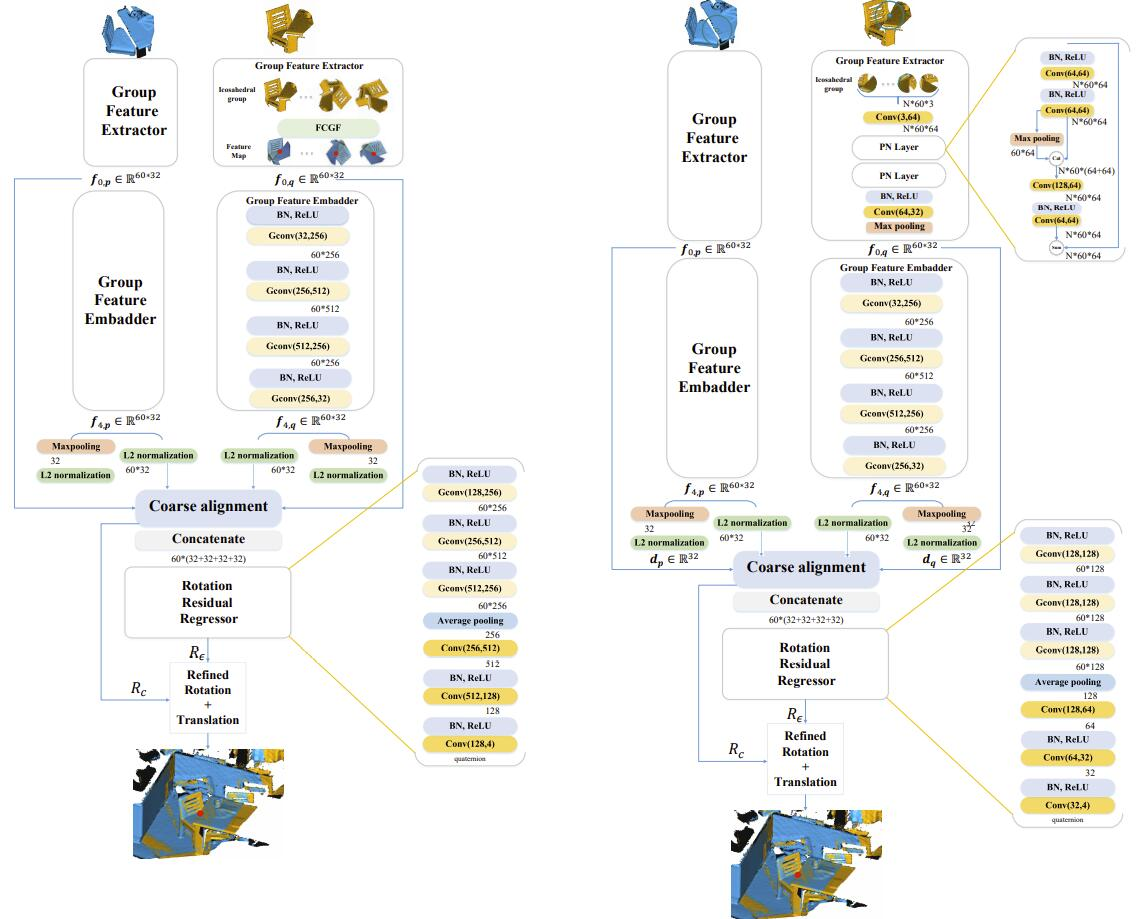
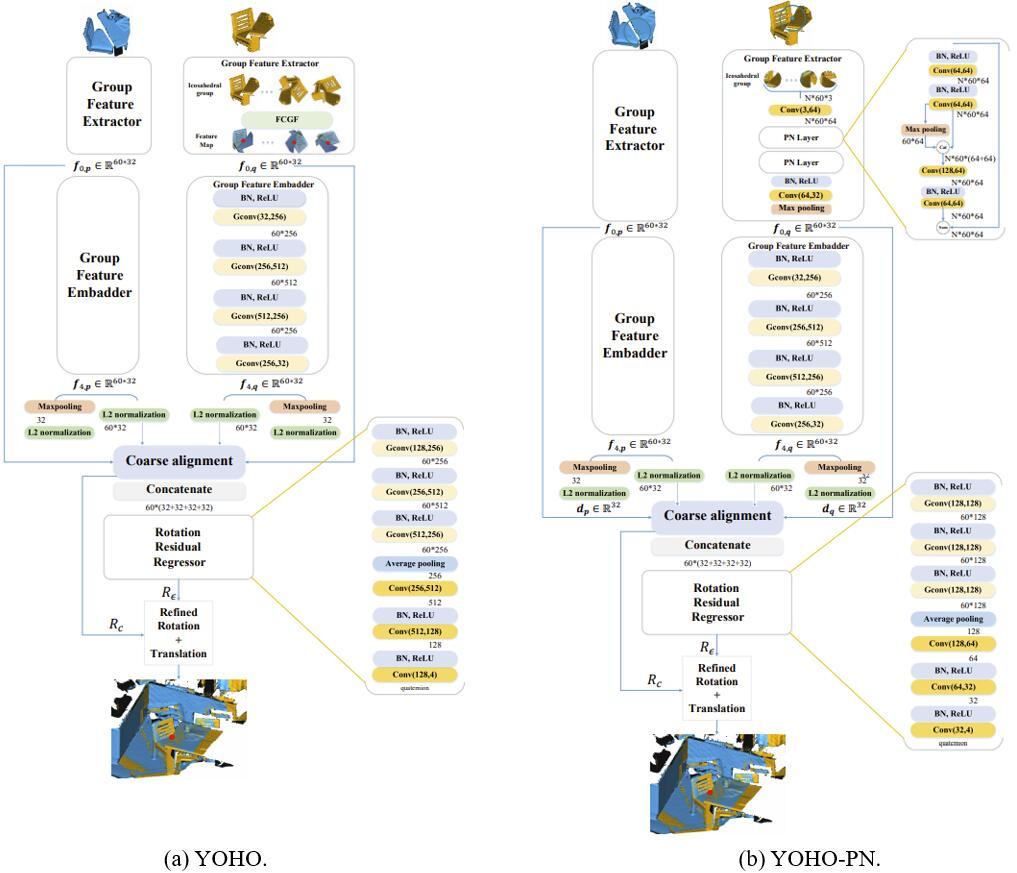
net

diff --git a/index.html b/index.html
@@ -57,8 +57,6 @@
 
 <figure align="center">
   <p align="center"><img src="./pics/net.jpg" width="1000" />
-  <figcaption> Network Architectures of YOHO. Left: YOHO, right: YOHO-PN.
-  </figcaption>
   </p>
 </figure>
 
